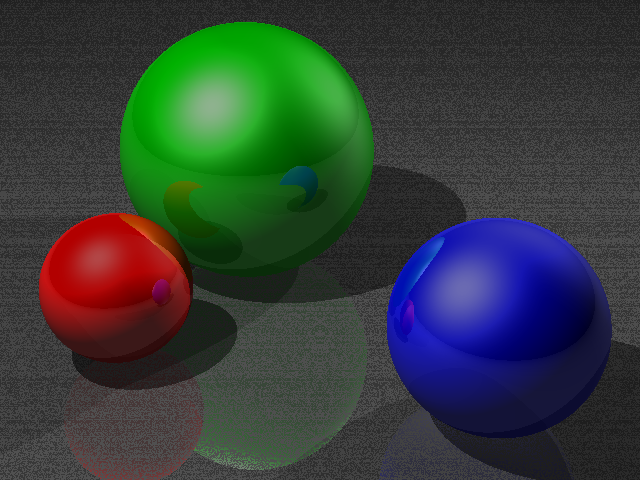
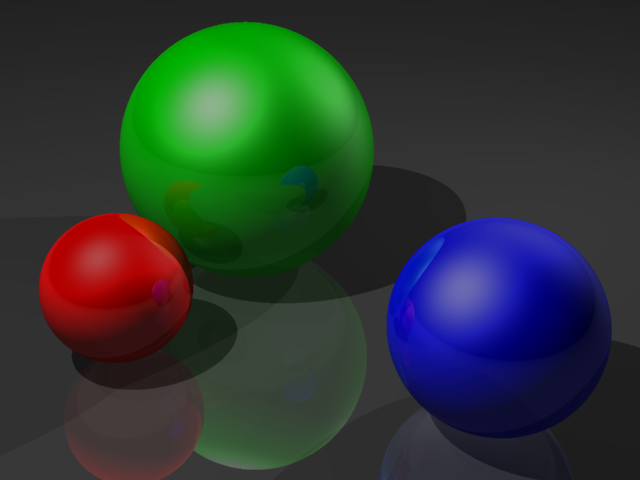
Got reflection and anti-aliasing working.

Changed region(s): [[0.0, 0.875, 0.0938, 1.0], [0.3125, 0.9375, 0.4375, 1.0], [0.1875, 0.4375, 0.2188, 0.4688]]

diff --git a/draw/renderer/renderer.go b/draw/renderer/renderer.go
@@ -29,8 +29,9 @@ func (r *Renderer) Trace(sc *scene.Scene, depth int, l *line.Line) color.NRGBA {
 	col := r.Illuminate(sc, depth, closest.S, closest.P, closest.N)
 
 	// Reflection
-	if depth < 2 {
-		reflect := line.New(closest.P, l.Direction.Norm().Reflect(closest.N.Norm()).Mul(1e-3))
+	if depth < 5 {
+		ref := l.Direction.Norm().Reflect(closest.N.Norm())
+		reflect := line.New(closest.P.Add(draw.ToPoint(ref.Mul(1e-3))), ref)
 		refCol := r.Trace(sc, depth+1, reflect)
 		refVec := vec.FromCol(refCol).Mul(0.3)
 		cVec := vec.FromCol(col).Mul(0.7)
@@ -66,29 +67,27 @@ func (ren *Renderer) Illuminate(sc *scene.Scene, depth int, sh shape.Shape, p *p
 	return color.NRGBA{uint8(math.Min(255, (specVal + rVal))), uint8(math.Min(255, (specVal + gVal))), uint8(math.Min(255, (specVal + bVal))), 255}
 }
 
-func (r *Renderer) Render(sc *scene.Scene) image.Image {
-	buffer := image.NewRGBA(image.Rect(0, 0, r.Width, r.Height))
-	cam := camera.New(r.Width, r.Height)
+func (ren *Renderer) Render(sc *scene.Scene) image.Image {
+	buffer := image.NewRGBA(image.Rect(0, 0, ren.Width, ren.Height))
+	cam := camera.New(ren.Width, ren.Height)
 
-	for i := 0; i < r.Width; i++ {
-		for j := 0; j < r.Height; j++ {
+	for i := 0; i < ren.Width; i++ {
+		for j := 0; j < ren.Height; j++ {
 			lines := cam.CastRay(i, j)
-			var col *color.NRGBA = nil
+			var (
+				r uint = 0
+				g uint = 0
+				b uint = 0
+			)
 			for _, l := range lines {
-				tmp := r.Trace(sc, 1, l)
-				if col == nil {
-					col = &tmp
-				} else {
-					// average colours
-					col = &color.NRGBA{
-						uint8((float64(col.R) + float64(tmp.R)) / 2),
-						uint8((float64(col.G) + float64(tmp.G)) / 2),
-						uint8((float64(col.B) + float64(tmp.B)) / 2),
-						255,
-					}
-				}
+				col := ren.Trace(sc, 1, l)
+				r += uint(col.R)
+				g += uint(col.G)
+				b += uint(col.B)
 			}
-			buffer.Set(i, j, col)
+
+			c := uint(len(lines))
+			buffer.Set(i, j, &color.NRGBA{uint8(r / c), uint8(g / c), uint8(b / c), 255})
 		}
 	}
 

diff --git a/draw/camera/camera.go b/draw/camera/camera.go
@@ -34,15 +34,18 @@ func New(width, height int) *Camera {
 func (c *Camera) CastRay(x, y int) []*line.Line {
 	xPos := (c.WidthStep-c.WidthWld)/2 + float64(x)*c.WidthStep
 	yPos := (c.HeightStep+c.HeightWld)/2 - float64(y)*c.HeightStep
+	lines := make([]*line.Line, 0)
 
-	lines := []*line.Line{line.New(point.Zero(), vec.New(xPos, yPos, 1).Norm())}
-	return lines
+	/*
+	 *lines := []*line.Line{line.New(point.Zero(), vec.New(xPos, yPos, 1).Norm())}
+	 *return lines
+	 */
 
 	for i := -1; i <= 1; i++ {
 		for j := -1; j <= 1; j++ {
 			lines = append(lines,
 				line.New(point.Zero(),
-					vec.New(xPos+(float64(i)*c.WidthStep/1), yPos+(float64(j)*c.HeightStep/1), 1).Norm()))
+					vec.New(xPos+(float64(i)*c.WidthStep/2), yPos+(float64(j)*c.HeightStep/2), 1).Norm()))
 		}
 	}
 
